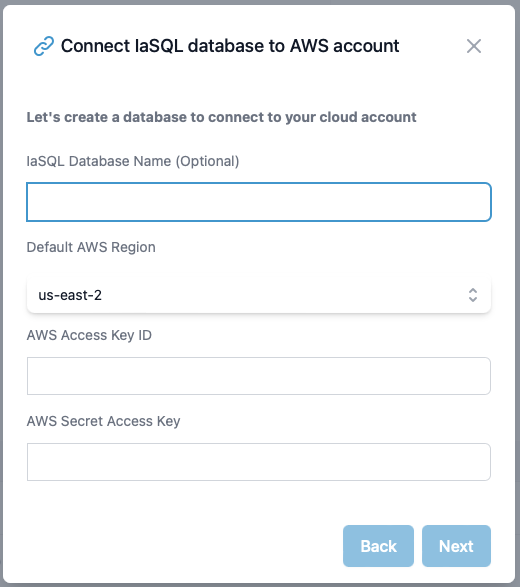
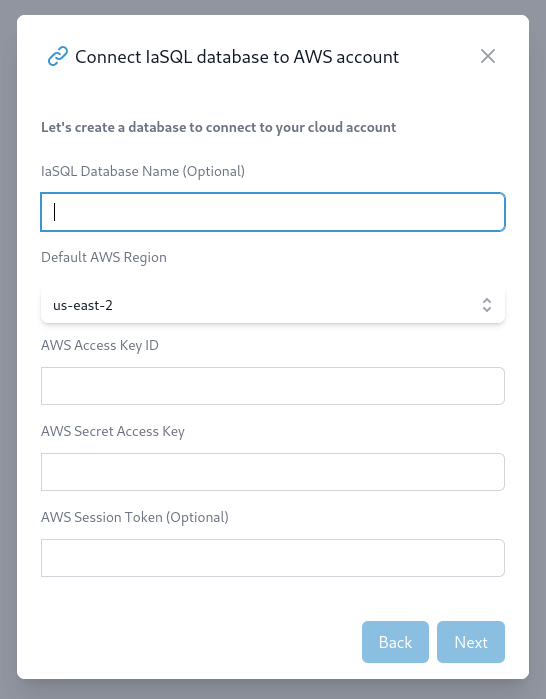
Add support for temporary session tokens (#2160)
* Add support for temporary session tokens

* Fix formatting

* Fix minor form mistake spotted by @md5

* Update docs

Changed region(s): [[0.0, 0.0, 1.0, 1.0], [0.0615, 0.0613, 0.7692, 0.092], [0.8615, 0.0613, 0.9231, 0.092]]

diff --git a/dashboard/src/components/providers/AppProvider.tsx b/dashboard/src/components/providers/AppProvider.tsx
@@ -350,7 +350,7 @@ const middlewareReducer = async (
         dispatch({ ...payload, data: { error: 'No auth token defined.' } });
         break;
       }
-      const { dbAlias, awsSecretAccessKey, awsRegion, awsAccessKeyId, latestVersion } = payload.data;
+      const { dbAlias, awsSecretAccessKey, awsRegion, awsAccessKeyId, awsSessionToken } = payload.data;
       const alias = dbAlias ? dbAlias : uniqueNamesGenerator(nameGenConfig);
       let newDb: any = null;
       try {
@@ -378,22 +378,14 @@ const middlewareReducer = async (
       // table aws_account form now
       // ${awsRegion.name}
       try {
-        await DbActions.run(
-          token,
-          backendUrl,
-          alias,
-          `
-          INSERT INTO aws_credentials (access_key_id, secret_access_key)
-          VALUES ('${awsAccessKeyId}', '${awsSecretAccessKey}');
-        `,
-        );
-        if (semver.lt(latestVersion ?? '', '0.0.23')) {
+        if (awsSessionToken) {
           await DbActions.run(
             token,
             backendUrl,
             alias,
             `
-            SELECT * FROM iasql_sync();
+            INSERT INTO aws_credentials (access_key_id, secret_access_key, session_token)
+            VALUES ('${awsAccessKeyId}', '${awsSecretAccessKey}', '${awsSessionToken}');
           `,
           );
         } else {
@@ -402,18 +394,27 @@ const middlewareReducer = async (
             backendUrl,
             alias,
             `
-            SELECT * FROM iasql_begin();
-          `,
-          );
-          await DbActions.run(
-            token,
-            backendUrl,
-            alias,
-            `
-            SELECT * FROM iasql_commit();
+            INSERT INTO aws_credentials (access_key_id, secret_access_key)
+            VALUES ('${awsAccessKeyId}', '${awsSecretAccessKey}');
           `,
           );
         }
+        await DbActions.run(
+          token,
+          backendUrl,
+          alias,
+          `
+          SELECT * FROM iasql_begin();
+        `,
+        );
+        await DbActions.run(
+          token,
+          backendUrl,
+          alias,
+          `
+          SELECT * FROM iasql_commit();
+        `,
+        );
         await DbActions.run(
           token,
           backendUrl,

diff --git a/dashboard/src/components/Connect.tsx b/dashboard/src/components/Connect.tsx
@@ -8,12 +8,13 @@ import { Combobox, Input, Label, Step, VBox, Wizard } from './common';
 import { ActionType, useAppContext } from './providers/AppProvider';
 
 export default function Connect({ closable }: { closable: boolean }) {
-  const { error, latestVersion, newDb, dispatch, token } = useAppContext();
+  const { error, newDb, dispatch, token } = useAppContext();
 
   const [dbAlias, setDbAlias] = useState('');
   const [awsRegion, setAwsRegion] = useState(regions[14]); // default: us-east-2
   const [awsAccessKeyId, setAwsAccessKeyId] = useState('');
   const [awsSecretAccessKey, setAwsSecretAccessKey] = useState('');
+  const [awsSessionToken, setAwsSessionToken] = useState('');
   const [stack, setStack] = useState(['createdb']);
   const isMakingDb = useRef(false);
 
@@ -36,7 +37,7 @@ export default function Connect({ closable }: { closable: boolean }) {
         dispatch({
           action: ActionType.NewDb,
           token,
-          data: { dbAlias, awsRegion, awsAccessKeyId, awsSecretAccessKey, latestVersion },
+          data: { dbAlias, awsRegion, awsAccessKeyId, awsSecretAccessKey, awsSessionToken },
         });
       }
       break;
@@ -105,6 +106,13 @@ export default function Connect({ closable }: { closable: boolean }) {
               name='credentials-secret-access-key'
               value={awsSecretAccessKey}
               setValue={setAwsSecretAccessKey}
+            />
+            <Label htmlFor='credentials-session-token'>AWS Session Token (Optional)</Label>
+            <Input
+              type='text'
+              name='credentials-session-token'
+              value={awsSessionToken}
+              setValue={setAwsSessionToken}
             />
           </VBox>
         </form>

diff --git a/src/modules/aws_account/index.ts b/src/modules/aws_account/index.ts
@@ -2,7 +2,7 @@ import { Not, IsNull } from 'typeorm';
 
 import { EC2 } from '@aws-sdk/client-ec2';
 
-import { AWS, crudBuilderFormat } from '../../services/aws_macros';
+import { AWS, AWSCreds, crudBuilderFormat } from '../../services/aws_macros';
 import { Context, Crud, MapperBase, ModuleBase, PartialContext } from '../interfaces';
 import { AwsCredentials, AwsRegions } from './entity';
 
@@ -125,12 +125,14 @@ class AwsAccount extends ModuleBase {
       // :( https://github.com/typeorm/typeorm/issues/9208
       const awsCreds = await orm.findOne(AwsCredentials, { where: { accessKeyId: Not(IsNull()) } });
       if (!awsCreds) throw new Error('No credentials found');
+      const credentials: AWSCreds = {
+        accessKeyId: awsCreds.accessKeyId,
+        secretAccessKey: awsCreds.secretAccessKey,
+      };
+      if (awsCreds.sessionToken) credentials.sessionToken = awsCreds.sessionToken;
       this.awsClient[region] = new AWS({
         region,
-        credentials: {
-          accessKeyId: awsCreds.accessKeyId,
-          secretAccessKey: awsCreds.secretAccessKey,
-        },
+        credentials,
       });
       return this.awsClient[region];
     },

diff --git a/src/modules/aws_account/migration/1678307371603-aws_account.ts b/src/modules/aws_account/migration/1678307371603-aws_account.ts
@@ -1,11 +1,11 @@
 import { MigrationInterface, QueryRunner } from 'typeorm';
 
-export class awsAccount1662479691407 implements MigrationInterface {
-  name = 'awsAccount1662479691407';
+export class awsAccount1678307371603 implements MigrationInterface {
+  name = 'awsAccount1678307371603';
 
   public async up(queryRunner: QueryRunner): Promise<void> {
     await queryRunner.query(
-      `CREATE TABLE "aws_credentials" ("id" SERIAL NOT NULL, "access_key_id" character varying NOT NULL, "secret_access_key" character varying NOT NULL, CONSTRAINT "PK_dd50eeb7ab9f2b49389ecd659f9" PRIMARY KEY ("id"))`,
+      `CREATE TABLE "aws_credentials" ("id" SERIAL NOT NULL, "access_key_id" character varying NOT NULL, "secret_access_key" character varying NOT NULL, "session_token" character varying, CONSTRAINT "PK_dd50eeb7ab9f2b49389ecd659f9" PRIMARY KEY ("id"))`,
     );
     await queryRunner.query(
       `CREATE TABLE "aws_regions" ("region" character varying NOT NULL, "is_default" boolean NOT NULL DEFAULT false, "is_enabled" boolean NOT NULL DEFAULT true, CONSTRAINT "PK_60264a4f4afcbdf73a1ef081235" PRIMARY KEY ("region"))`,

diff --git a/src/services/aws_macros.ts b/src/services/aws_macros.ts
@@ -29,12 +29,13 @@ import { defaultRetryDecider, StandardRetryStrategy } from '@aws-sdk/middleware-
 
 import config from '../config';
 
-type AWSCreds = {
+export type AWSCreds = {
   accessKeyId: string;
   secretAccessKey: string;
+  sessionToken?: string;
 };
 
-type AWSConfig = {
+export type AWSConfig = {
   credentials: AWSCreds;
   region: string;
 };

diff --git a/src/modules/aws_account/entity/index.ts b/src/modules/aws_account/entity/index.ts
@@ -37,6 +37,14 @@ export class AwsCredentials {
    */
   @Column()
   secretAccessKey: string;
+
+  /**
+   * @public
+   * AWS Session Token
+   * For temporary security credentials only
+   */
+  @Column({ nullable: true })
+  sessionToken: string;
 }
 
 /**
